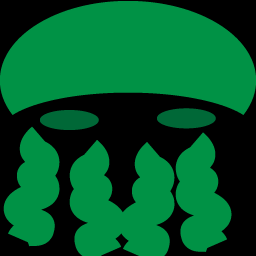
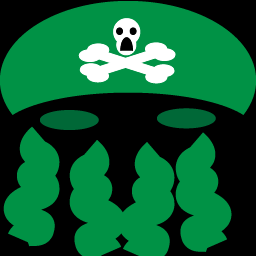
Added extra spook and ticking

Changed region(s): [[0.3125, 0.0625, 0.6875, 0.3438]]

diff --git a/model.py b/model.py
@@ -20,6 +20,7 @@ class Alien(GameObject):
 
 
 class Model:
+    tick = 1
     MODEL_WIDTH = 800
     MODEL_HEIGHT = 600
     PLAYER_SPEED = MODEL_WIDTH / 400
@@ -36,23 +37,23 @@ class Model:
                                     self.ALIEN_WIDTH, self.ALIEN_HEIGHT, "x-wing.png")]
 
         alien_y = self.MODEL_HEIGHT - self.ALIEN_Y_OFF - self.ALIEN_HEIGHT  # Alien spawn y starting point.
-        while alien_y > self.MODEL_HEIGHT / 2:  # Alien y spawn endpoint.
-            alien_x = self.ALIEN_X_OFF * 3  # Alien spawn x starting point.
-            while alien_x < self.MODEL_WIDTH - self.ALIEN_X_OFF * 4:    # Alien x spawn endpoint.
+        while alien_y > self.MODEL_HEIGHT / 2:                              # Alien y spawn endpoint.
+            alien_x = self.ALIEN_X_OFF * 3                                  # Alien spawn x starting point.
+            while alien_x < self.MODEL_WIDTH - self.ALIEN_X_OFF * 4:        # Alien x spawn endpoint.
                 self.objects += [Alien(alien_x, alien_y, self.ALIEN_WIDTH, self.ALIEN_HEIGHT, "alien.png")]
-                alien_x += self.ALIEN_WIDTH * 1.5   # Next alien spawn in row.
-            alien_y -= self.ALIEN_HEIGHT * 1.3  # Next alien spawn in column.
+                alien_x += self.ALIEN_WIDTH * 1.5                           # Next alien spawn in row.
+            alien_y -= self.ALIEN_HEIGHT * 1.3                              # Next alien spawn in column.
 
     def update(self):
         # updates the state of the model
-        for obj in self.objects:
-            obj.x += obj.dx
-            obj.y += obj.dy
+        if Model.tick % 60 == 0:
+            for obj in self.objects[1:]:
+                obj.x += Model.tick % Model.MODEL_WIDTH/ 10
+                obj.y += obj.dy
+        Model.tick += 1
+        self.objects
 
     def action(self, key_val: str, action_type: int):
-        # action_types integer constants: Press (view.KEY_PRESS), Release (view.KEY_RELEASE)
-        # key val are constants defined in pyglet.window.key (as key)
-        # Sample code which prints messages in reaction to a key press or release
         import view  # avoids circular imports
         if action_type == view.KEY_PRESS:
             print(key_val, " was pressed")
